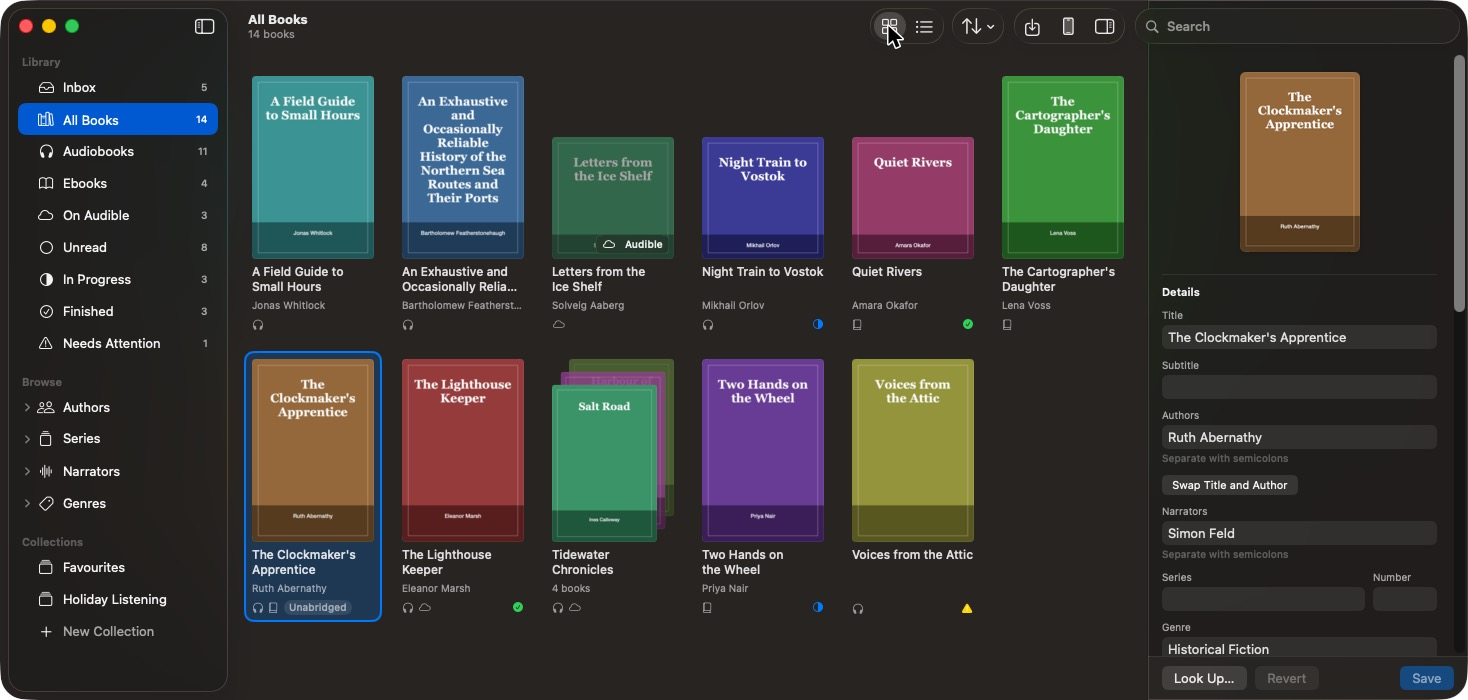
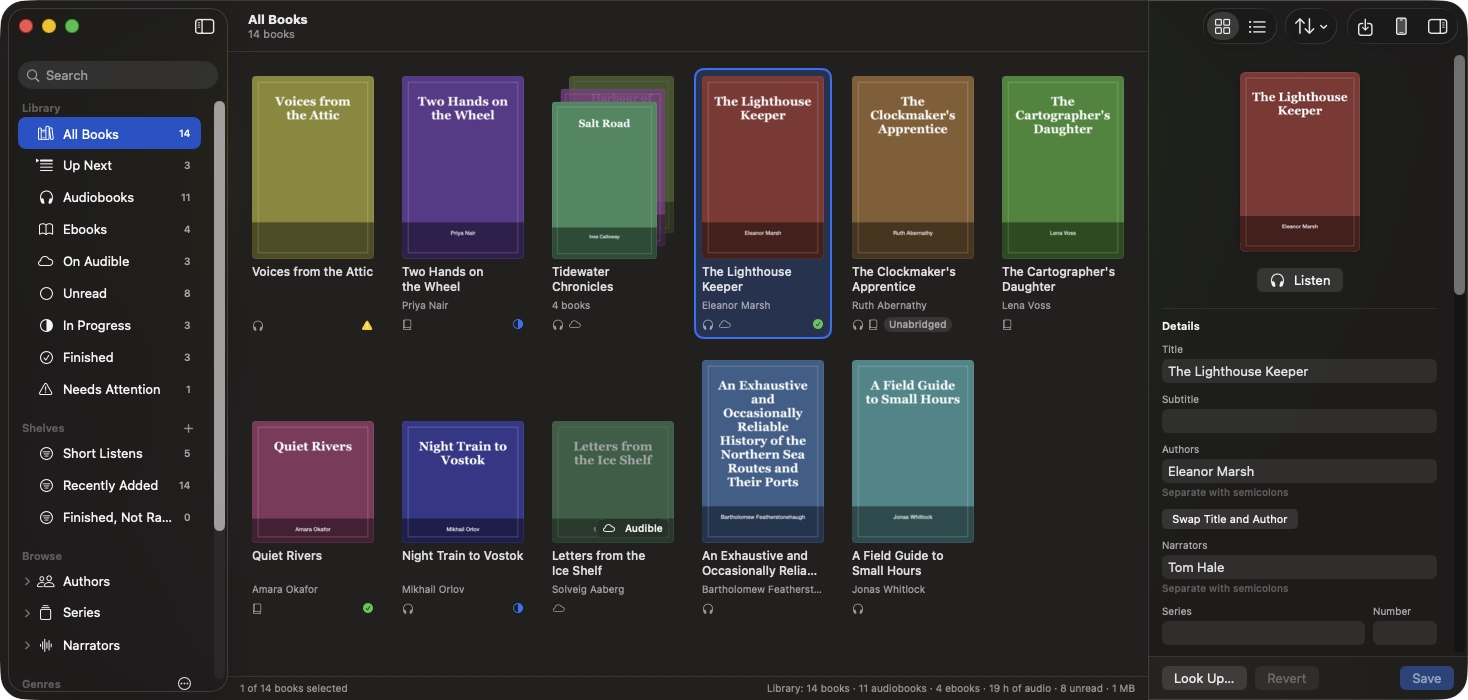
The diagnostics zip keeps its .zip ending in the save panel; newer pictures of the grid, the list and the import review

diff --git a/VoxCarrelApp/Sources/VoxCarrelUI/Panels.swift b/VoxCarrelApp/Sources/VoxCarrelUI/Panels.swift
@@ -80,6 +80,10 @@ enum Panels {
         panel.message = "Saves a zip of text files about the app and the library, for you to look over and send yourself. Nothing is sent by VoxCarrel."
         panel.prompt = "Export"
         panel.nameFieldStringValue = DiagnosticsText.fileName(on: Date())
+        // A zip and nothing else: the name keeps its ".zip", shown and written.
+        panel.allowedContentTypes = [.zip]
+        panel.allowsOtherFileTypes = false
+        panel.isExtensionHidden = false
         panel.canCreateDirectories = true
         let titles = NSButton(
             checkboxWithTitle: "Include the titles and file names of books that need attention", target: nil, action: nil)
